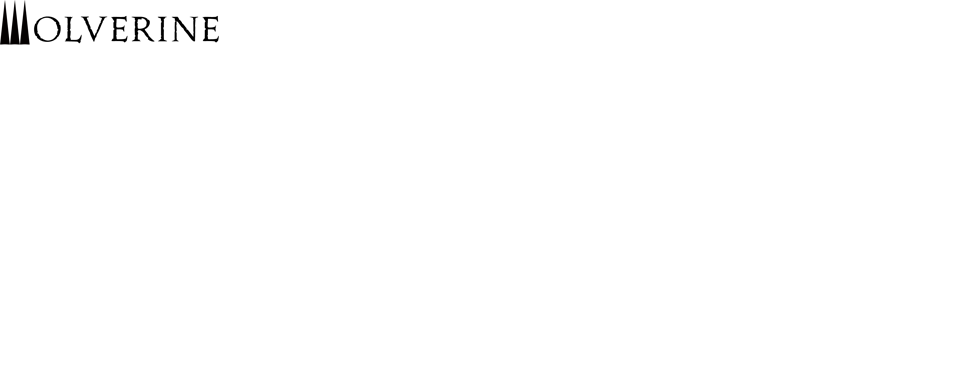
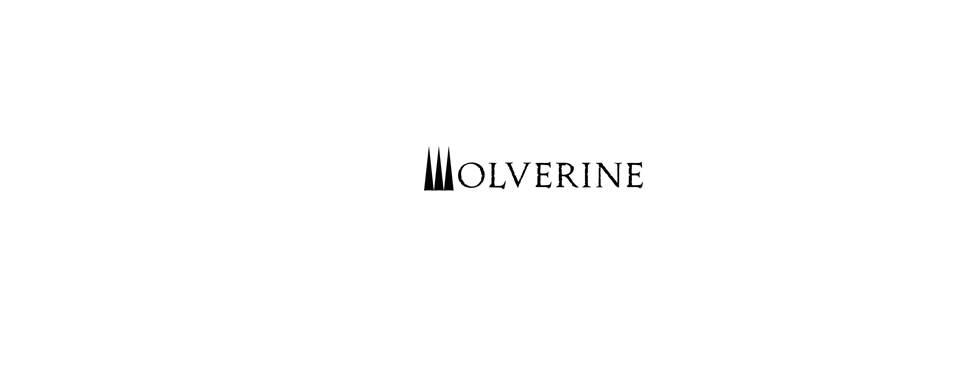
fixade lite css

Changed region(s): [[0.4303, 0.3753, 0.6762, 0.5197], [0.0, 0.0, 0.2459, 0.1155]]

diff --git a/index.html b/index.html
@@ -7,19 +7,19 @@
     <title>Wolverine CV</title>
 </head>
 <body>
-    <nav>
-     <a href="index.html"> <img src="Wolverine2.png" alt="Logotyp"></a>
-     <ul>
-         <li><a href="">Professional experience</a></li>
-         <li><a href="">Education</a></li>
-         <li><a href="">Skills</a></li>
-         <li><a href="">Languages</a></li>
-     </ul>
-    </nav>
+    <header>
+        <nav>
+         <img src="Wolverine.png" alt="">
+         <ul>
+          <li><a href="">Professional experience</a></li>
+          <li><a href="">Education</a></li>
+          <li><a href="">Skills</a></li>
+          <li><a href="">Languages</a></li>
+         </ul>
+        </nav>
+    </header>
     <main>
-        <header>
-      
-        </header>
+
 <h1>Logan Wolverine</h1>
 <h2>Contact information</h2>
 <p>Phone: +1 231 573-854

diff --git a/style.css b/style.css
@@ -1,4 +1,17 @@
 body {
     background-color #FDF9F9;
-
+    margin: 0%;
+    padding: 0%;
+}
+nav {
+    box-sizing: inherit;
+    border-color: red;
+    display: flex;
+}
+img {
+    width: 20%;
+    height: 20%;
+}
+ul {
+    list-style: none;
 }
